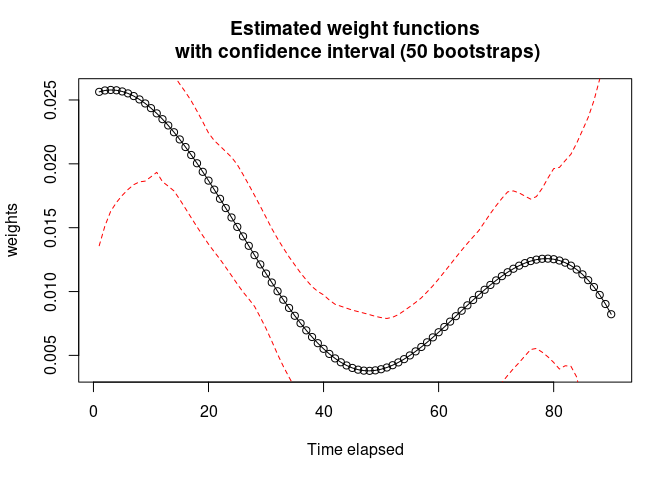
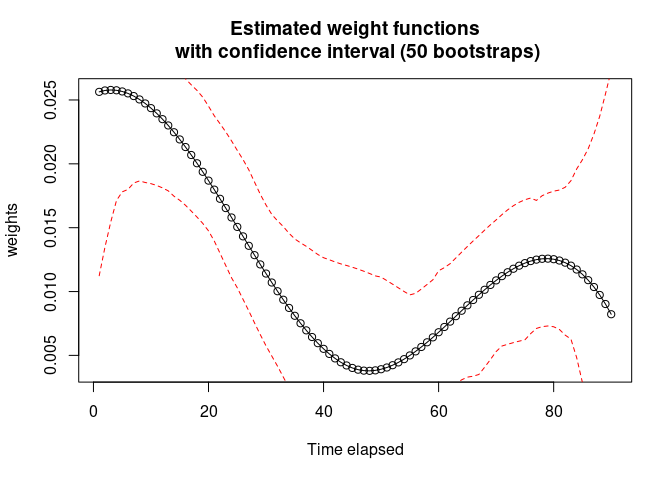
install via github + python_connect vignette

diff --git a/R/README.md b/R/README.md
@@ -10,8 +10,8 @@ The survivalGPU library allows you to perform survival analyzes using
 the resources of Graphic Processing Units (GPU) in order to accelerate
 the speed of calculations. Currently, two models have been implemented :
 
-- Cox[^1] [^2]  
-- WCE[^3] (Weighted Cumulative Exposure)
+- `coxphGPU()` for Cox[^1] [^2] model  
+- `wceGPU()` for Weighted Cumulative Exposure[^3] model
 
 It’s also possible to use the library without having Graphics Processing
 Units (with CPU).
@@ -20,23 +20,41 @@ Units (with CPU).
 
 ### Requirements
 
+Python packages :
+
 - pytorch
 - pytorch-scatter
 - pykeops (for WCE model)
 
-You can install the development version of survivalGPU from
-[GitHub](https://github.com/) with:
+Actually, survivalGPU is not available for Windows.
+
+survivalGPU require submodules : you can install the development version
+of survivalGPU from [GitHub](https://github.com/) with
+`install_git_with_submodule()`:
 
 ``` r
 # install.packages("devtools")
-devtools::install_github("jeanfeydy/survivalGPU",
-                         subdir = "R")
+
+install_git_with_submodule <- function(x, subdir) {
+  install_dir <- tempfile()
+  system(paste("git clone --recursive", shQuote(x), shQuote(install_dir)))
+  
+  # change name for windows install
+  file.rename(file.path(install_dir,"R/inst/python/survivalgpu"),
+              file.path(install_dir,"R/inst/python/survivalgpu_submodule"))
+  file.copy(file.path(install_dir,"python/survivalgpu"),
+            file.path(install_dir,"R/inst/python"), recursive=TRUE)
+  
+  devtools::install(file.path(file.path(install_dir,subdir)))
+}
+
+install_git_with_submodule("https://github.com/jeanfeydy/survivalGPU",
+                           subdir="R")
 ```
 
-You can build the package on tar.gz file with `devtools::build()` after
-git clone this repository.
-
-> **Warning**: if R offers you to install Miniconda, refuse.
+> **Warning**: survivalGPU is a package dependant of python, and it’s
+> necessary to have installed the `reticulate` R package. To manage your
+> python or miniconda configuration, check vignette(“python_connect”).
 
 ## Examples
 
@@ -111,8 +129,8 @@ summary(coxphGPU_bootstrap)
 #>  ---------------- 
 #> Confidence interval with 50 bootstraps for exp(coef), conf.level = 0.95 :
 #>      2.5% 97.5%
-#> sex 1.426 2.181
-#> age 1.004 1.019
+#> sex 1.506 2.269
+#> age 1.004 1.020
 ```
 
 ### WCE
@@ -157,8 +175,8 @@ summary(wce_gpu_bootstrap)
 #> 
 #> CI of estimates :
 #>           2.5%     97.5%
-#> age 0.00481487 0.0196821
-#> sex 0.46510100 0.8901410
+#> age 0.00340716 0.0193621
+#> sex 0.44109100 0.9042010
 ```
 
 The risk function can be plot, and if you added bootstrap, confidence
